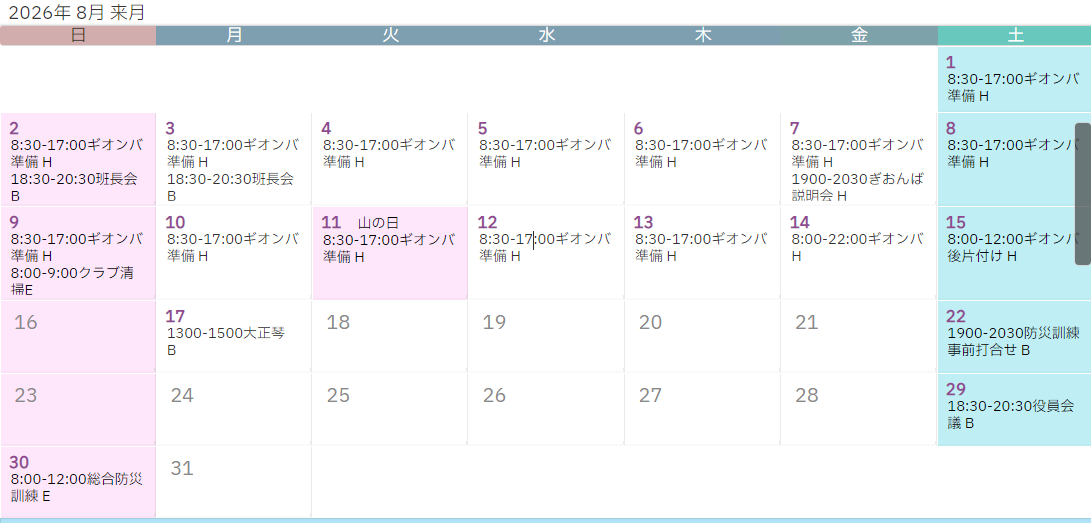
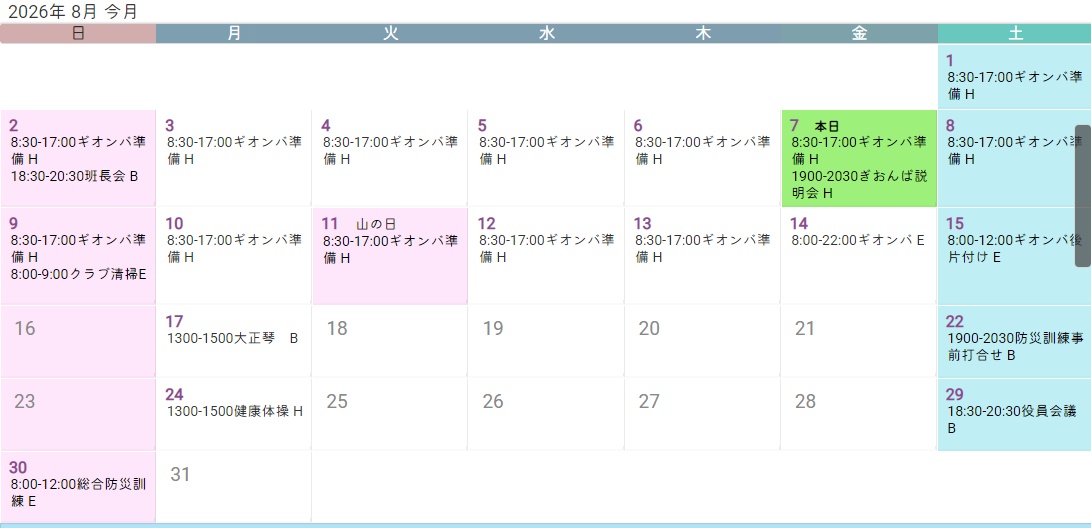
Add files via upload

diff --git a/index.html b/index.html
@@ -26,7 +26,7 @@
         <li><a href="calendar202605.PNG" target="_blank">２０２６年５月</a>
       </ul>
     <hr> <!--横線を引く-->
-    <small>　最終更新日　2026年8月01日<br>
+    <small>　最終更新日　2026年8月07日<br>
           Copyright (c)  認可地縁団体法人　第３区　All Rights Reserved.</small>
   </body>
 </html>
